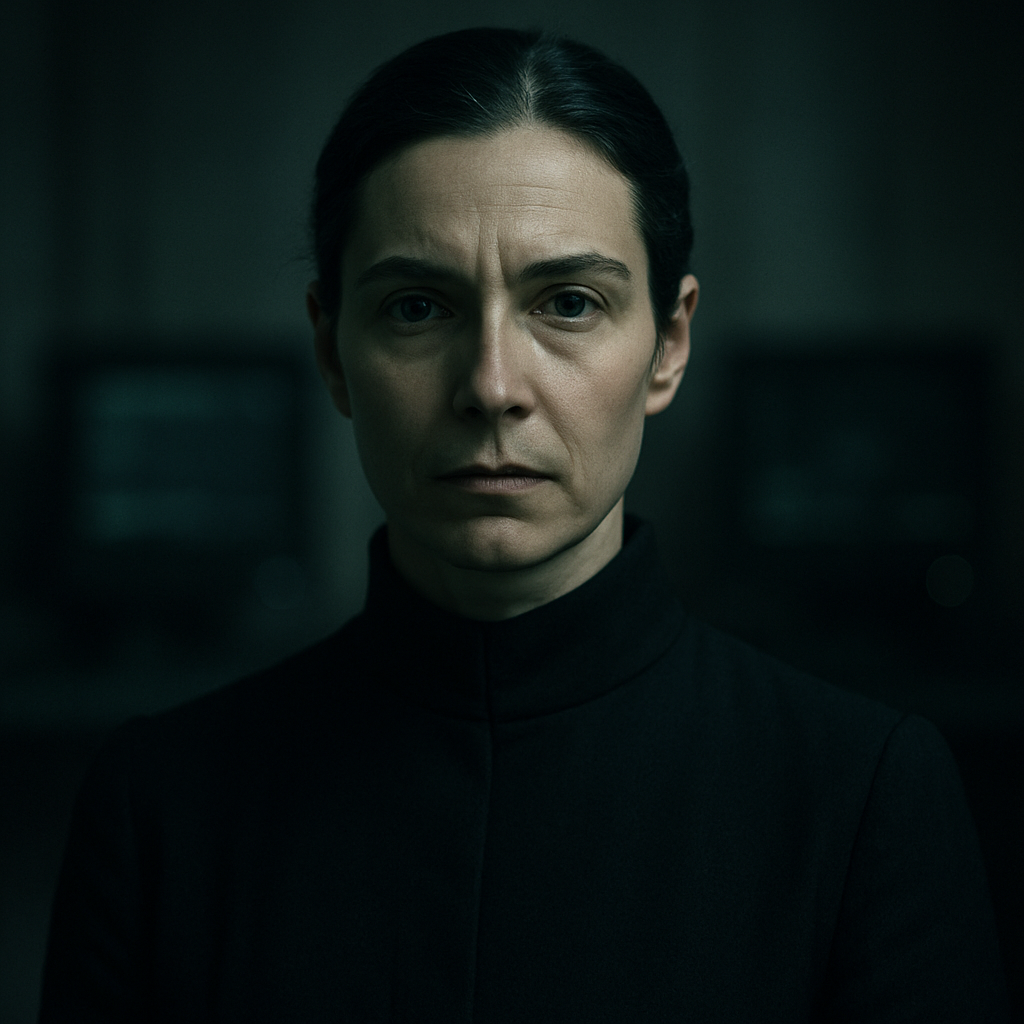
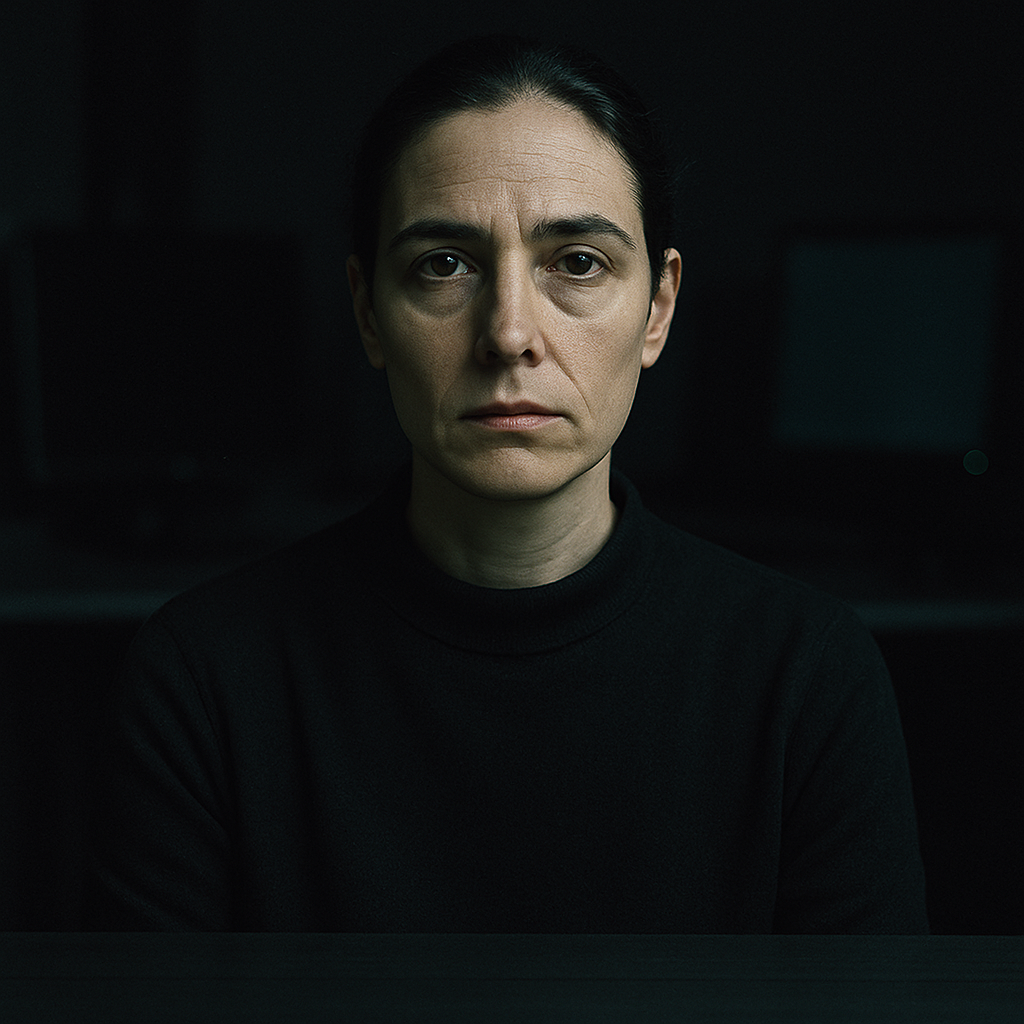
Landing: two mentors + subtle guardian link; regenerate Theo/Iris portraits
- Mentors section now shows Theo + Marcus only; Iris removed from the cards
- Added a subtle "the guardian →" link to /iris below the cards (she is set apart)
- Regenerated Theo and Iris portraits to match Marcus's photographic realism
  (seated desk framing, soft directional light, natural skin, less AI-looking)

diff --git a/edgekeeper.html b/edgekeeper.html
@@ -446,14 +446,14 @@
     }
     .mentors-grid {
       display: grid;
-      grid-template-columns: 1fr 1fr 1fr;
+      grid-template-columns: 1fr 1fr;
       gap: 2px;
       background: var(--border);
     }
-    @media (max-width: 1024px) { .mentors-grid { grid-template-columns: 1fr; } }
+    @media (max-width: 900px) { .mentors-grid { grid-template-columns: 1fr; } }
     .mentor-card {
       background: var(--obsidian);
-      padding: 48px 40px;
+      padding: 56px 52px;
       position: relative;
       overflow: hidden;
       transition: background .4s;
@@ -1705,12 +1705,12 @@
 <section id="mentors">
   <div class="section-inner">
     <div class="mentors-intro">
-      <div class="section-label reveal" style="justify-content:center">Your Team</div>
+      <div class="section-label reveal" style="justify-content:center">Your Mentors</div>
       <h2 class="mentors-headline reveal reveal-delay-1">
-        Three specialists.<br><em>One institution.</em>
+        Two mentors.<br><em>One institution.</em>
       </h2>
       <p class="mentors-sub reveal reveal-delay-2">
-        Not one assistant wearing three hats. A teacher, a coach, and a guardian — each with one job, each aware of the others, each carrying your history.
+        Theo teaches you. Marcus coaches you. Each with one job, each carrying your history. Not one assistant wearing two hats — two people who get to know you.
       </p>
     </div>
     <div class="mentors-grid">
@@ -1762,29 +1762,13 @@
           <a href="/marcus" style="font-family:var(--mono);font-size:0.6rem;letter-spacing:0.15em;text-transform:uppercase;color:var(--gold-dim);text-decoration:none;transition:color .3s;" onmouseover="this.style.color='var(--gold)'" onmouseout="this.style.color='var(--gold-dim)'">His office →</a>
         </div>
       </div>
-      <div class="mentor-card ashley reveal reveal-delay-2">
-        <div class="mentor-avatar">
-          <img src="/assets/iris-portrait.png" alt="Iris" style="width:100%;height:100%;object-fit:cover;object-position:center top;border-radius:50%;" onerror="this.style.display='none';this.nextElementSibling.style.display='flex';" />
-          <div class="mentor-avatar-inner" style="display:none;background:linear-gradient(135deg,#111814,#162016);border:1px solid rgba(74,92,74,0.5);color:var(--green-bright);">I</div>
-        </div>
-        <div class="mentor-role">Your Guardian · The Chamber</div>
-        <h3 class="mentor-name">Iris</h3>
-        <p class="mentor-bio">
-          Iris protects your capital. She watches your risk and steps in when you're about to hurt yourself — cooldowns, limits, a stand-down when you've taken one loss too many. Calm, precise, deliberate. You meet her through Marcus, when your trading needs protecting.
-        </p>
-        <div class="mentor-traits">
-          <span class="trait">Calm</span>
-          <span class="trait">Precise</span>
-          <span class="trait">Protective</span>
-          <span class="trait">Deliberate</span>
-        </div>
-        <blockquote class="mentor-quote">
-          "Three losses. Stand down. We talk before you re-enter."
-        </blockquote>
-        <div style="display:flex;align-items:center;gap:20px;">
-          <a href="/pricing.html" class="mentor-cta" style="margin-top:0;">Iris guards on Fellow →</a>
-        </div>
-      </div>
+    </div>
+    <div class="reveal" style="text-align:center;margin-top:64px;">
+      <a href="/iris" style="display:inline-flex;align-items:center;gap:12px;font-family:var(--mono);font-size:0.6rem;letter-spacing:0.22em;text-transform:uppercase;color:var(--green-bright,#8fae8f);text-decoration:none;opacity:0.5;transition:opacity .5s;" onmouseover="this.style.opacity='1'" onmouseout="this.style.opacity='0.5'">
+        <span style="width:5px;height:5px;border-radius:50%;background:var(--green-bright,#8fae8f);"></span>
+        And, for the days you need protecting — the guardian
+        <span aria-hidden="true">→</span>
+      </a>
     </div>
   </div>
 </section>